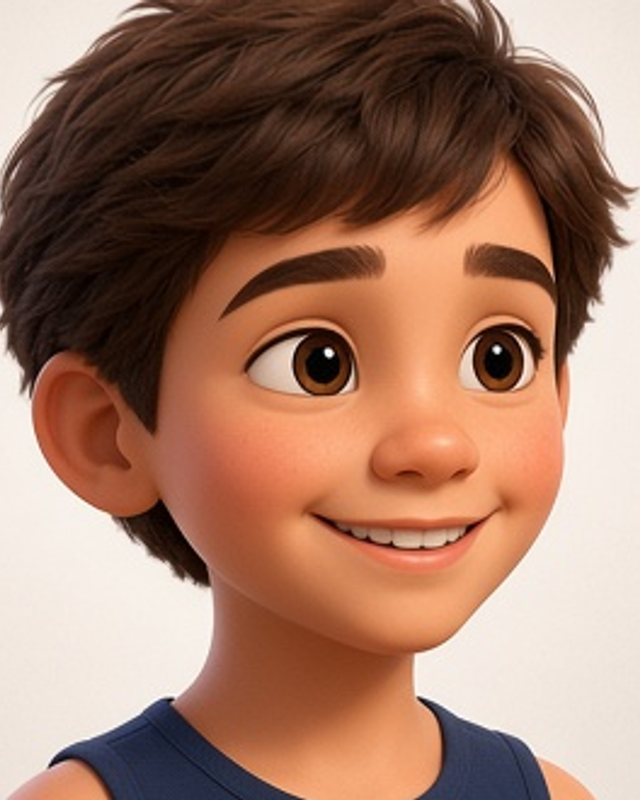
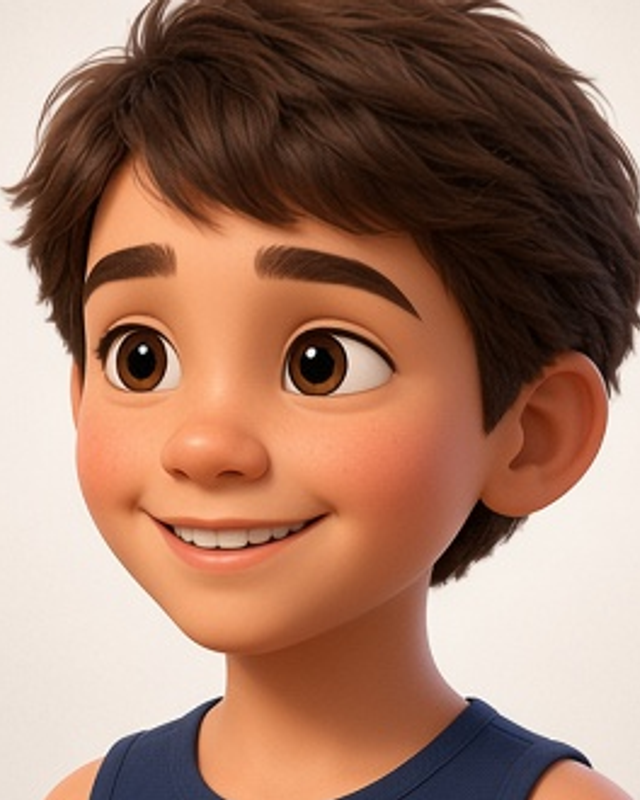
fix: espelhar guias esquerda/direita (viewer-facing) v6
¾ face + corpo ¾/perfil *_left estavam virados à direita do viewer.
Flop nos crops, cache ?v=6, e flop no script de regeneração.

diff --git a/src/lib/onboarding/child-profile.ts b/src/lib/onboarding/child-profile.ts
@@ -7,7 +7,7 @@ export const GENDER_LABELS: Record<ChildGender, string> = {
 };
 
 /** Cache-bust quando as guias 3D mudam (evita SVG flat antigo no browser). */
-export const GUIDE_ASSET_VERSION = "5";
+export const GUIDE_ASSET_VERSION = "6";
 
 export function guideFolderForGender(
   gender: ChildGender | null | undefined,

diff --git a/src/lib/onboarding/build.ts b/src/lib/onboarding/build.ts
@@ -1,2 +1,2 @@
 /** Stamp visível — se o browser não mostrar isto, ainda está em cache / outro agente. */
-export const ONBOARDING_BUILD = "v5-pin-last";
+export const ONBOARDING_BUILD = "v6-guides-lr";
